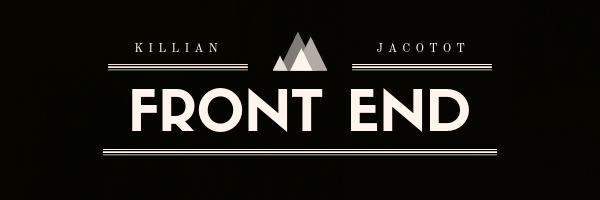
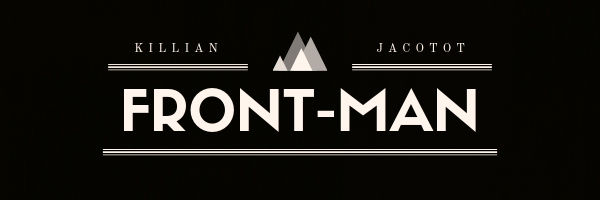
intégration des bannières beaucoup trop stylées

Changed region(s): [[0.18, 0.42, 0.81, 0.66]]

diff --git a/css/style.css b/css/style.css
@@ -293,6 +293,19 @@
 /* Page Kevin
 /*--------------------------------*/
 
+.bannerpodeur {
+  display: flex;
+  flex-direction: row wrap;
+  align-content: center;
+  justify-content: center;
+  margin-left: 35%;
+}
+
+.backgroundpodeur {
+   background-color: #050500;
+   margin: 0 -300px;
+   height: 200px;
+}
 
 .body-kevin
 {
@@ -447,6 +460,19 @@
 *            PAGE CSS ERWAN              *
 *****************************************/
 
+.bannererwan {
+  display: flex;
+  flex-direction: row wrap;
+  align-content: center;
+  justify-content: center;
+  margin-left: 35%;
+}
+
+.backgrounderwan {
+   background-color: #050500;
+   margin: 0 -300px;
+   height: 200px;
+}
 
 .banner {
   display: flex;
@@ -535,6 +561,20 @@
 /********************************/
 /*        CSS NINON
 *********************************/
+
+.bannerninon {
+  display: flex;
+  flex-direction: row wrap;
+  align-content: center;
+  justify-content: center;
+  margin-left: 35%;
+}
+
+.backgroundninon {
+   background-color: #050500;
+   margin: 0 -300px;
+   height: 200px;
+}
 
 .nuage {
   width: 933px;

diff --git a/pages/ninon.php b/pages/ninon.php
@@ -1,7 +1,10 @@
-
+<!-- 
 	<link href="../css/style.css" rel="stylesheet">
-	<h1 class=grostitreninon><div class="nomninon"> Ninon </div> </br> Cours et Devoirs </h1>
+	<h1 class=grostitreninon><div class="nomninon"> Ninon </div> </br> Cours et Devoirs </h1> -->
 
+<div class="backgroundninon">
+	<img src="images/ninonbanner.png" class="bannerninon">
+</div>
 	<h2 class=titresninon> Nos projets </h2>
 		<div class=cours><p> Au sein de cette première partie de formation, nous avons déjà accompli une bonne quantité de travail et acquis de nombreuses connaissances. Nous avons étudié :</p>
 			<ul>
@@ -37,5 +40,5 @@
 		</div>
 
 	<h2 class=titresninon> Qui je suis : <h2>
-		<img class=nuage src="../images/nuageninon.png" />
+		<img class=nuage src="images/nuageninon.png" />
 	<h2 class=titresninon> Ce que m'apporte Sentinelles Technologies <h2>

diff --git a/pages/erwan.php b/pages/erwan.php
@@ -1,9 +1,12 @@
-<link href="css/bootstrap.min.css" rel="stylesheet" />
+<!-- <link href="css/bootstrap.min.css" rel="stylesheet" />
 <link href="../css/style.css" rel="stylesheet">
 <!--<body>-->
-<div class="banner backgroundG">
+<!-- <div class="banner backgroundG">
 	<h1 class="banner">Erwan GOASDOUE</h1>
 	<h2>Présentation des projets réalisés à Sentinelles Technolohgies </h2>
+</div>  -->
+<div class="backgrounderwan">
+	<img src="images/erwanbanner.png" class="bannererwan">
 </div>
 <section>
 	<div>

diff --git a/pages/kevin.php b/pages/kevin.php
@@ -21,6 +21,9 @@
 </head>
 
 <body class="body-kevin">
+  <div class="backgroundpodeur">
+  <img src="images/podeurbanner.png" class="bannerpodeur">
+  </div>
 	<div class="titre">
 		<h1> Portofolio de Kevin </h1>
 	</div>

diff --git a/pages/killian.php b/pages/killian.php
@@ -64,7 +64,6 @@
 				<span class="lettre" id="lettre_y">Y</span>
 				<span class="lettre" id="lettre_z">Z</span>
 			</div>
-
 		</div>
 	</div>
 
